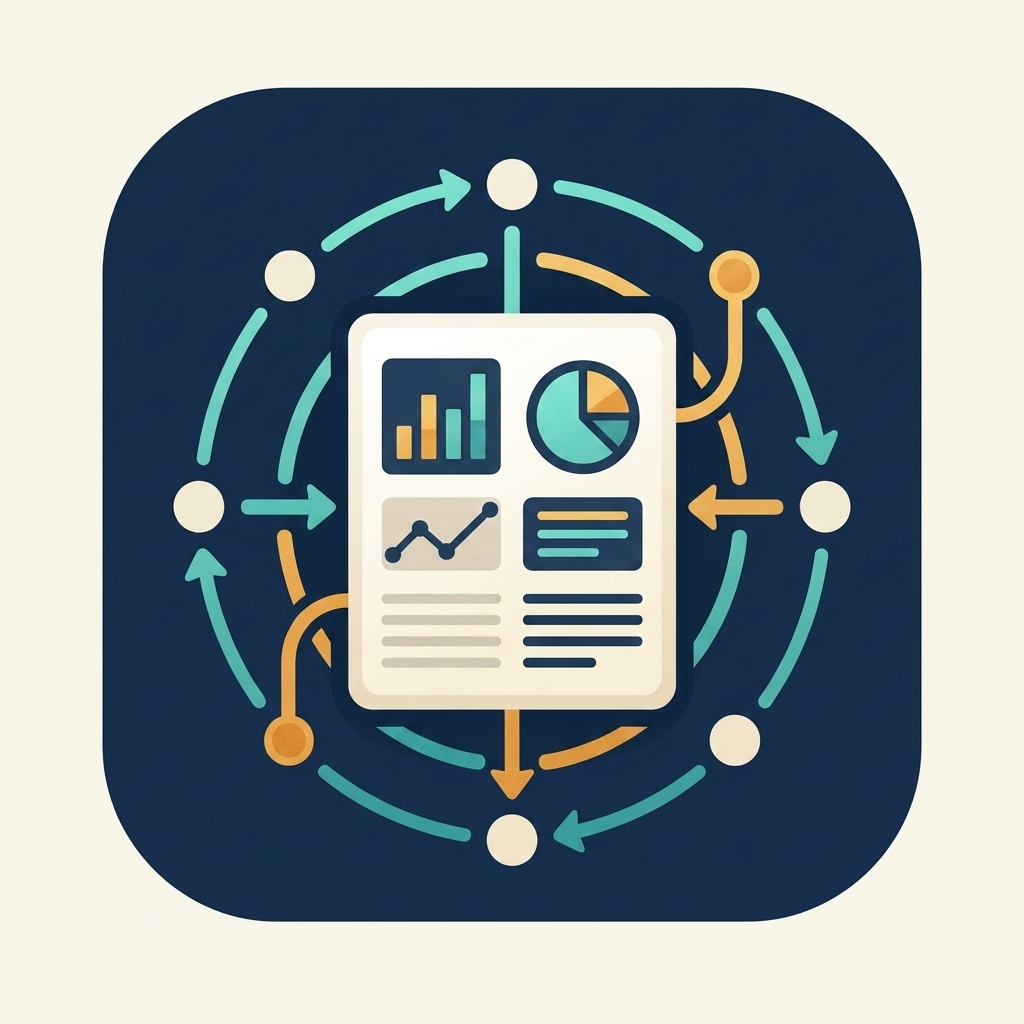
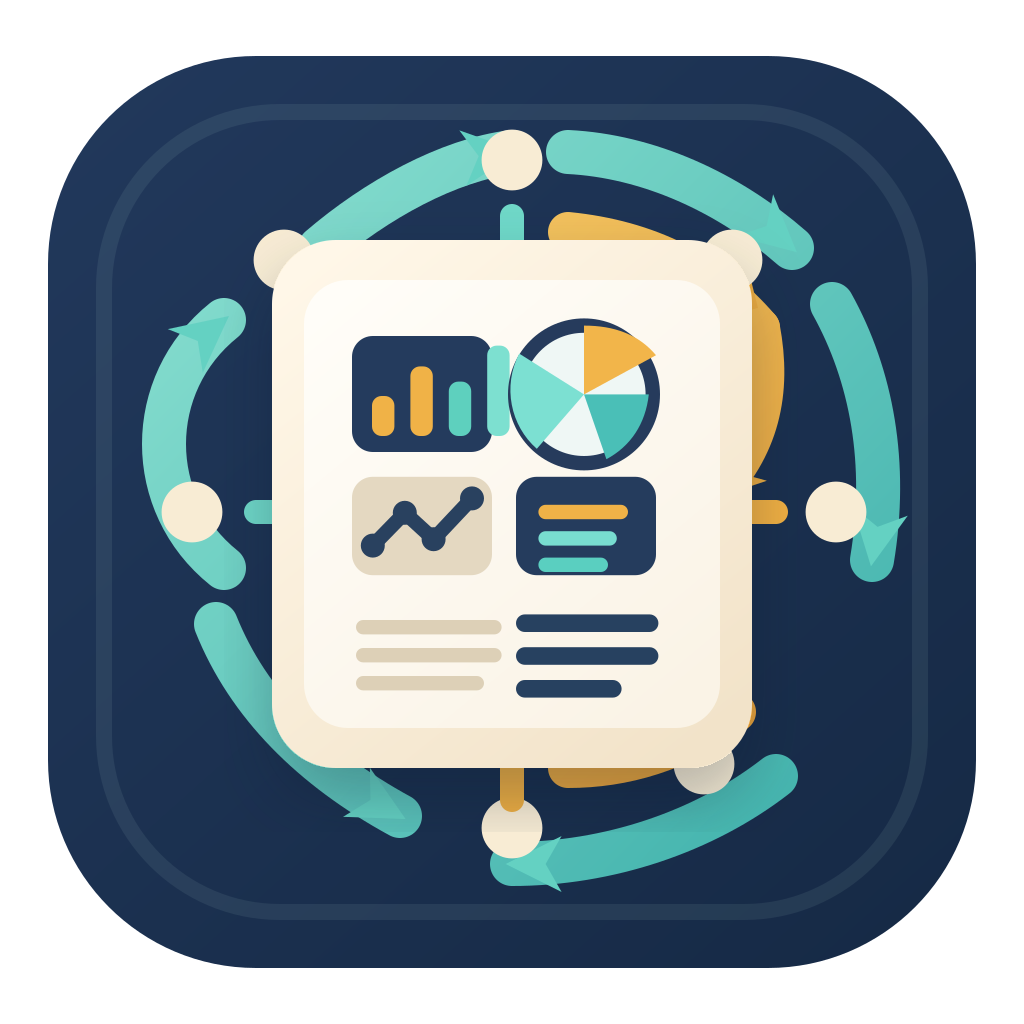
chore(release): prepare 0.4.3 branding and metadata

diff --git a/CHANGELOG.md b/CHANGELOG.md
@@ -6,6 +6,25 @@ The format is based on Keep a Changelog, with repository history backfilled from
 
 ## [Unreleased]
 
+## [0.4.3]
+
+### Added in 0.4.3
+
+- Added direct planning and generation support for non-PMID briefs such as preprints, repositories, and freeform research concepts through `source_title`, `source_kind`, `source_summary`, and `source_identifier` inputs.
+- Added `get_manifest_detail` and `record_host_review` so hosts can inspect full lineage-aware review history and persist external visual-review verdicts back into manifests.
+
+### Changed in 0.4.3
+
+- `generate_figure` is now the default single-entry drawing surface and performs internal plan-first orchestration when callers start from a PMID or generic source brief.
+- Output delivery now accepts `output_format` and performs internal raster conversion for `png`, `gif`, `jpeg`, and `webp`, while keeping `svg` as pass-through only.
+- Provider-side automated review is now persisted across generation, replay, and journal-retarget flows under the `provider_vision_required_host_optional` manifest policy.
+- Updated the VS Code extension branding with a marketplace gallery banner and a regenerated transparent icon asset that removes the visible white border.
+
+### Fixed in 0.4.3
+
+- Fixed composite-render manifest output paths so persisted manifest records follow the final converted asset path.
+- Fixed release-ready format coverage by adding official GIF validation, conversion, documentation, and regression coverage.
+
 ## [0.4.2]
 
 ### Changed in 0.4.2

diff --git a/memory-bank/progress.md b/memory-bank/progress.md
@@ -2,13 +2,15 @@
 
 ## Done
 
-- Added Copilot research workflow skill documents for PubMed and Zotero use cases.
-- Added Copilot hook scripts and shared policy files for prompt analysis, pipeline enforcement, result evaluation, and session lifecycle management.
-- Added agent and workflow guidance docs for the research assistant surface.
-- Cleaned local-only artifacts, removed the sensitive env backup copy, and created a dedicated branch for these changes.
+- 完成 0.4.3 release smoke：ruff、mypy、bandit、pytest、package_smoke、uv build、VSIX package 全部通過
+- 補上 VSX gallery banner，並以 icon.svg 重產透明 icon.png，移除舊 PNG 的白色外框
+- 將目前功能變更整理為可釋出的 0.4.3 版本：核心版號、extension 版號、uv.lock、CHANGELOG 已同步
+
 
 ## Doing
 
+- 分段整理 git 變更並準備 commit / push / tag
+
 ## Next
 
-- Validate the PowerShell hook scripts on a machine with `pwsh` installed and decide whether to open a PR from the new branch.
+- 檢查本機 VSCE / OVSX 憑證是否存在，能發佈就直接發佈，否則保留 tag 後走 GitHub Actions publish workflow

diff --git a/memory-bank/activeContext.md b/memory-bank/activeContext.md
@@ -2,7 +2,7 @@
 
 ## Current Goals
 
-- The Copilot research workflow hooks, policy files, skills, and agent guidance are now consolidated on a dedicated branch and ready for review.
+- 0.4.3 release candidate 已完成 smoke/package 驗證，接下來只剩分段 commit、push、tag，並視本機憑證狀態決定是直接 publish 還是交由 GitHub Actions workflow 發布。
 
 ## Current Blockers
 
